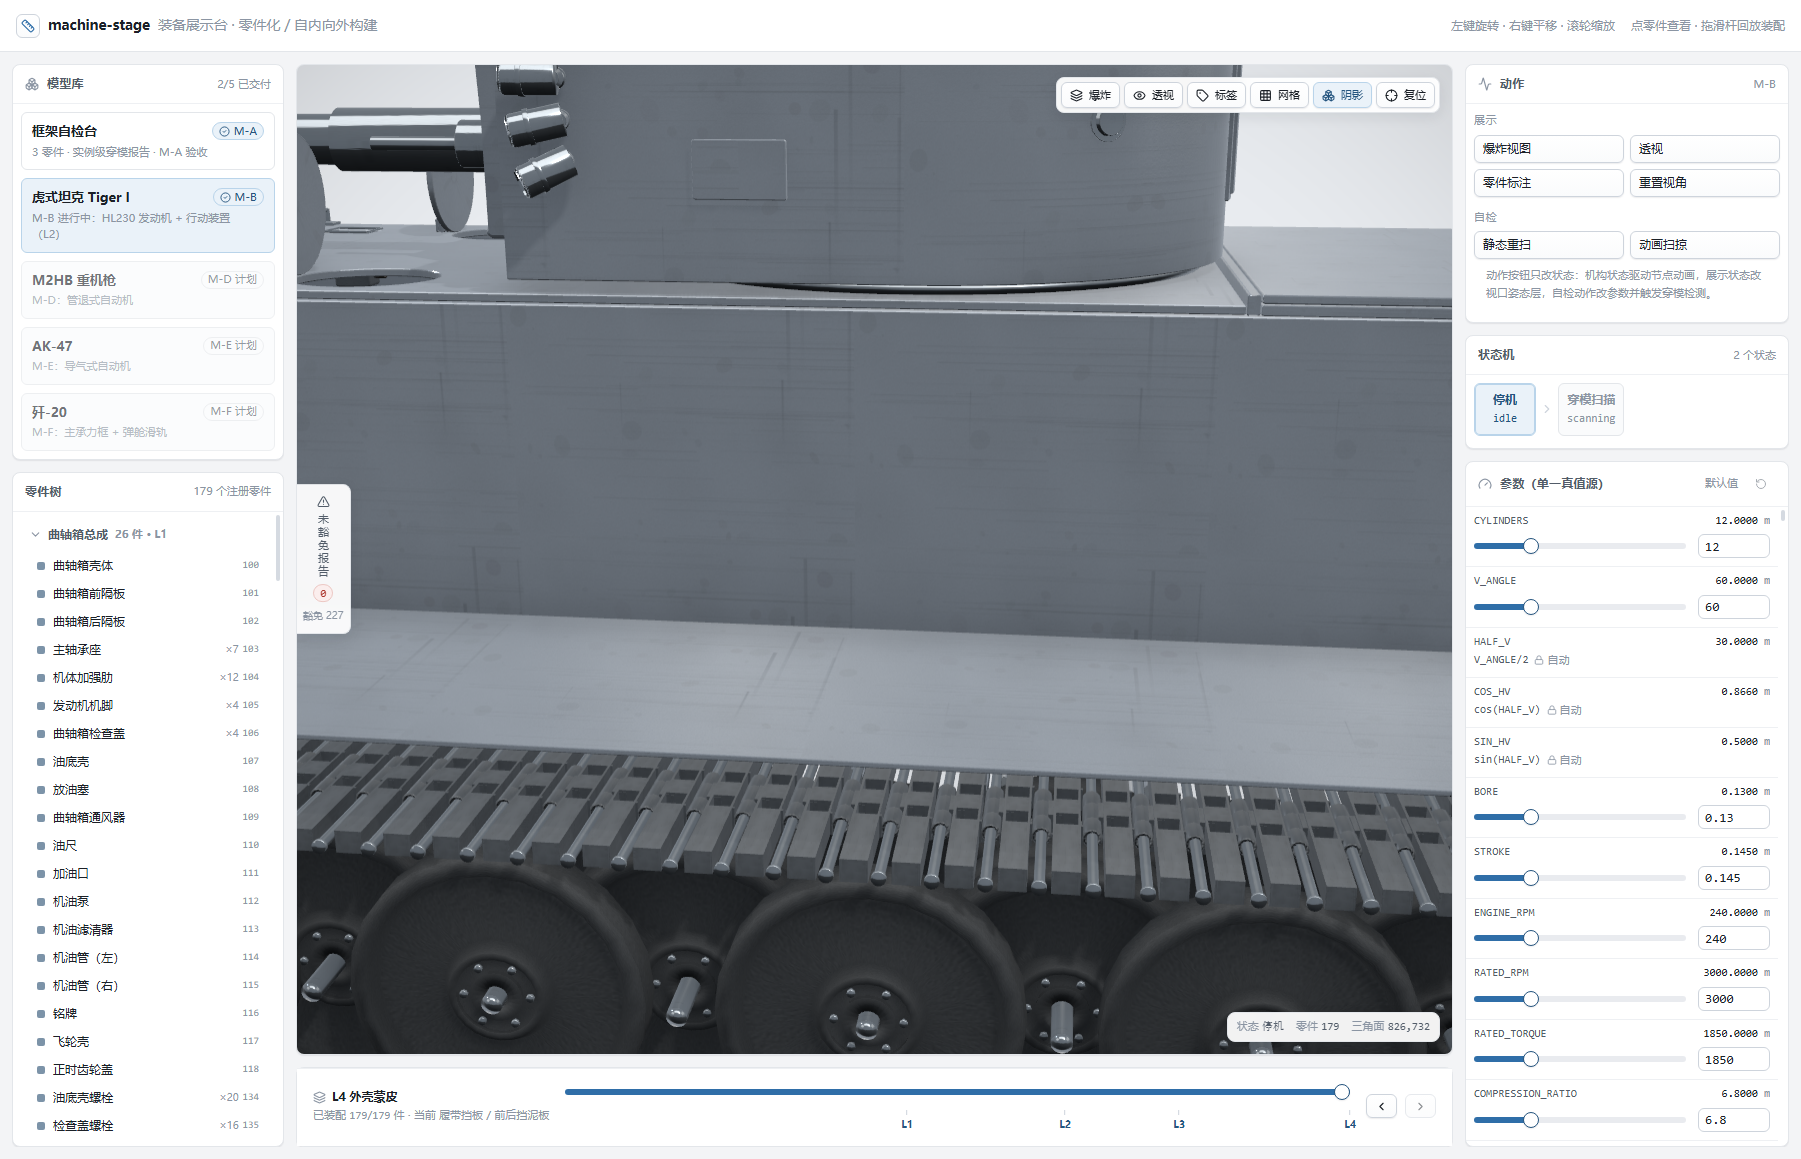
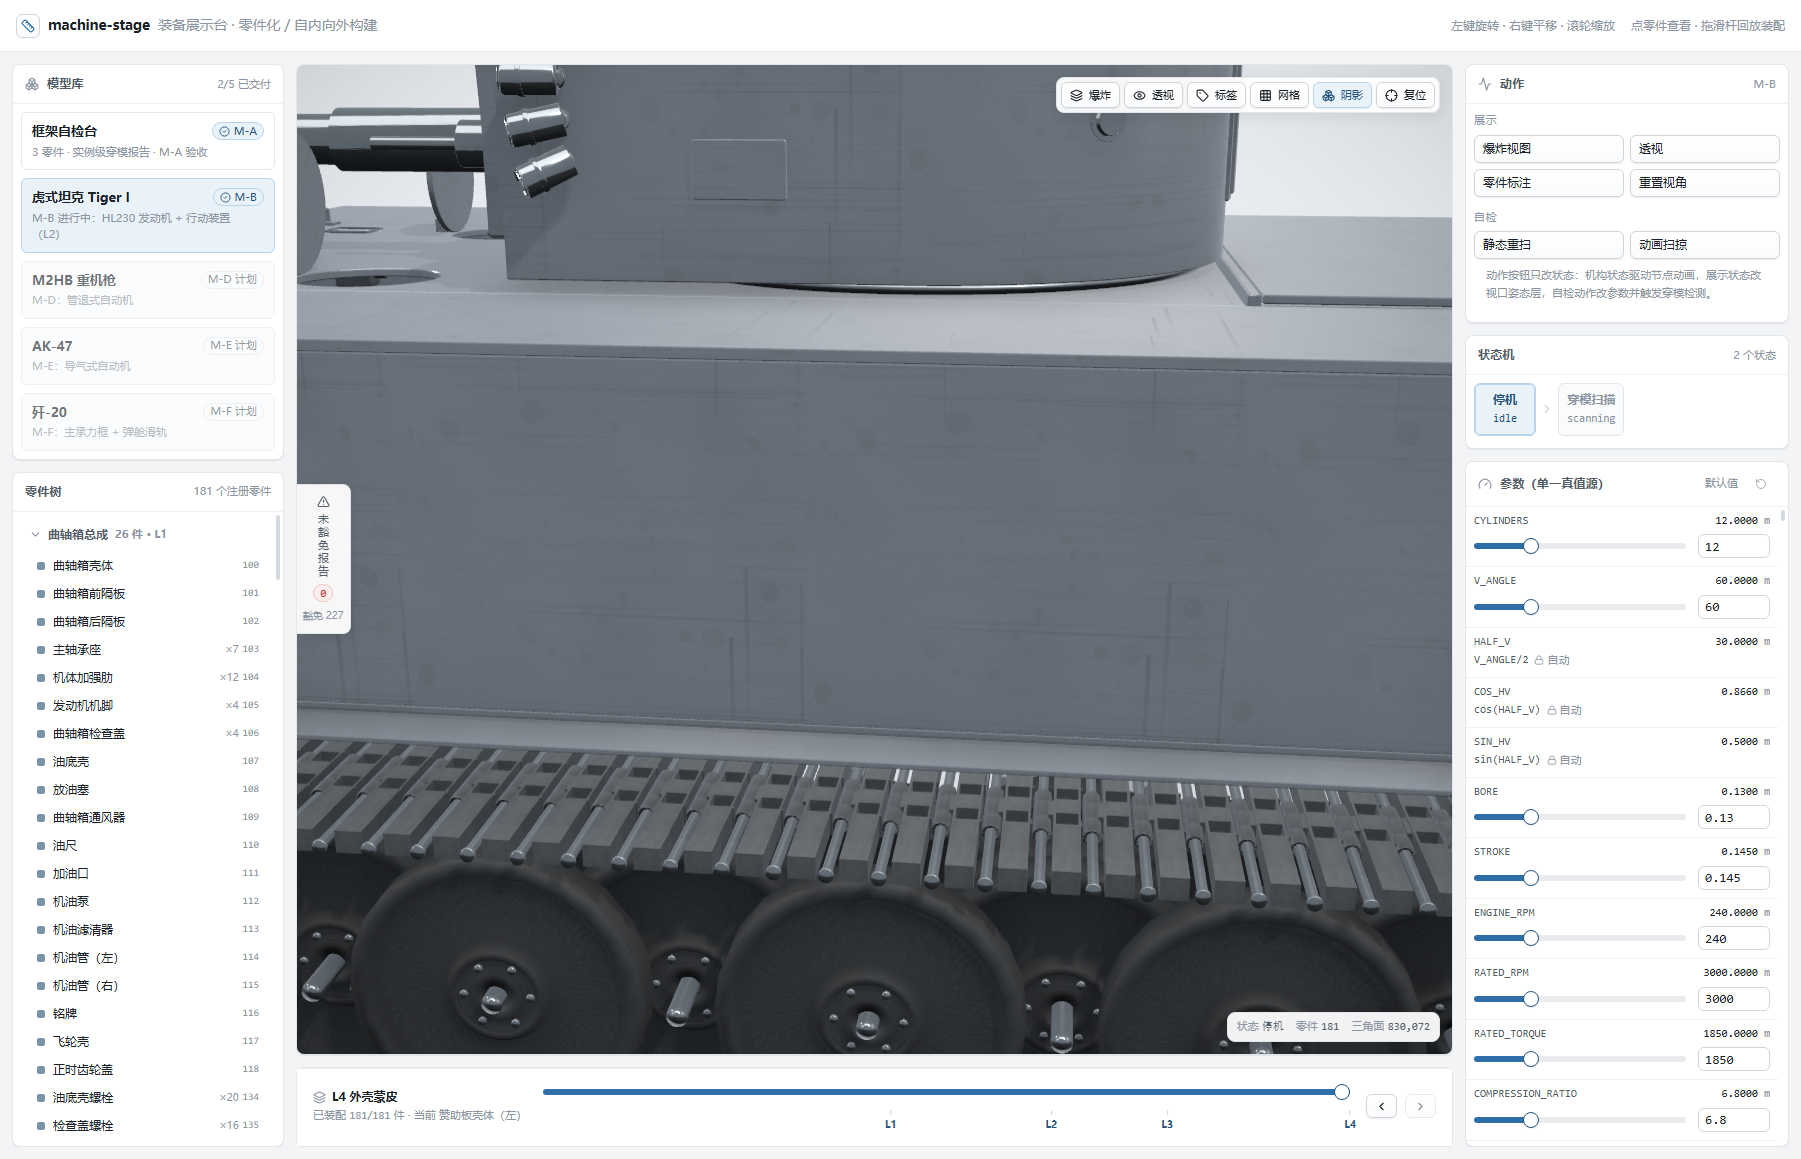
L4-g 第二片：上部车体赞助板（2 件各 1 实例）
tiger.hull.sponson_shell_right / _left：外壁 z ±1.72~±1.78（厚 60）、
地板 y 0.13~0.15（宽 0.8145）、顶板 y 1.045~1.075（与顶盖齐平）、
前后封板与首/尾板同面。一件一侧用 side=±1 参数化，所有块体关于自身
z 中心对称，不用镜像矩阵（无翻面/法线问题）。顶板与顶盖、地板与外壁
内缘留 3mm 名义缝；地板抬到 0.13 让开履带挡板（顶面 0.115）。

bugfix：首次 mate.z 误写 0（局部系原点应在 z ±0.9655），整件骑在中线上，
与前/尾板、航向机枪体、空滤卡箍相交 → 344 报告 / 未豁免 128；
改为 side*0.9655 后回到 227 / 0。

门禁：227 报告 / 未豁免 0（UI 自检 active 0）；实例 1708 → 1710；
零件 179 → 181；tsc / diag / 截图已重拍。

diff --git a/src/three/parts/models/tiger/hull/kits.ts b/src/three/parts/models/tiger/hull/kits.ts
@@ -434,6 +434,50 @@ const trackGuard: GeometryBuilder = (spec) => {
   return merged;
 };
 
+// ---------------------------------------------------------------------------
+// 赞助板壳体（上部车体外翼）：地板 + 外壁 + 顶板 + 前后封板，一件一侧
+// 局部系：原点 = 地板下表面·前端·内缘；+x 向后、y 上。侧别由 side = ±1 控制 z 方向
+// （所有块体关于自身 z 中心对称，不需要镜像矩阵，避免法线翻转）。
+// ---------------------------------------------------------------------------
+const sponsonShell: GeometryBuilder = (spec) => {
+  const params = (spec as { params?: Params }).params;
+  const side = num(params, "side", 1) < 0 ? -1 : 1;
+  const len = num(params, "len", 5.41);
+  const width = num(params, "width", 0.8145);
+  const wallT = num(params, "wallT", 0.06);
+  const floorT = num(params, "floorT", 0.02);
+  const wallH = num(params, "wallH", 0.895);
+  const deckT = num(params, "deckT", 0.03);
+
+  const parts: THREE.BufferGeometry[] = [];
+
+  // 地板（z 0 ~ width）
+  const floor = bevelBoxGeometry(len, floorT, width, 0.003);
+  floor.translate(len / 2, floorT / 2, (side * width) / 2);
+  parts.push(floor);
+
+  // 外壁（外表面与 z = width 齐平）
+  const wall = bevelBoxGeometry(len, wallH, wallT, 0.003);
+  wall.translate(len / 2, floorT + wallH / 2, side * (width - wallT / 2));
+  parts.push(wall);
+
+  // 顶板（顶面 = 1.075，与顶盖齐平；内缘离顶盖 3mm）
+  const deck = bevelBoxGeometry(len, deckT, width, 0.003);
+  deck.translate(len / 2, floorT + wallH + deckT / 2, (side * width) / 2);
+  parts.push(deck);
+
+  // 前后封板（与首/尾板同平面，只占 z 0.9655 以外）
+  for (const x of [0.02, len - 0.02]) {
+    const cap = bevelBoxGeometry(0.04, wallH, width, 0.003);
+    cap.translate(x, floorT + wallH / 2, (side * width) / 2);
+    parts.push(cap);
+  }
+
+  const merged = mergeGeometries(parts);
+  for (const item of parts) item.dispose();
+  return merged;
+};
+
 export const tigerHullKitBuilders: Record<string, GeometryBuilder> = {
   hullPlate,
   hatchLid,
@@ -444,4 +488,5 @@ export const tigerHullKitBuilders: Record<string, GeometryBuilder> = {
   mgBarrel,
   liftingEye,
   trackGuard,
+  sponsonShell,
 };

diff --git a/src/three/parts/models/tiger/hull/registry.ts b/src/three/parts/models/tiger/hull/registry.ts
@@ -708,6 +708,29 @@ function buildHullParts(): PartDefinition[] {
       "履带挡板（Kotflügel）：5.41 m × 0.94 m × 15mm 薄钢板 + 前后各一块 260mm 活页挡泥板（下折 35°）+ 内侧 5 道支撑肋（18 × 100 × 520，贴车体侧留 3mm）。内缘离车体侧壁 3mm（z ±0.9655），外缘到 z ±1.905（履带外缘 1.8525 外 52mm），板面 y 0.10（履带顶 −0.24 上方 340mm）。实车挡板挂在赞助板（z ±1.78）下缘、宽约 300mm；本模型上部车体尚未补，先按下部车体侧壁外伸的整块挡板做，L4-g 上部车体落地后缩到 300mm 并改挂 z ±1.78。",
   });
 
+  for (const side of [1, -1] as const) {
+    parts.push({
+      id: side > 0 ? "tiger.hull.sponson_shell_right" : "tiger.hull.sponson_shell_left",
+      name_cn: side > 0 ? "赞助板壳体（右）" : "赞助板壳体（左）",
+      name_en: side > 0 ? "Seitenvorbau (rechts)" : "Seitenvorbau (links)",
+      assembly: "hull",
+      build_layer: 4,
+      build_order: side > 0 ? 553 : 554,
+      geometry: {
+        type: "kit",
+        kit: "sponsonShell",
+        params: { side, len: 5.41, width: 0.8145, wallT: 0.06, floorT: 0.02, wallH: 0.895, deckT: 0.03 },
+      },
+      material: "armor_steel",
+      mate: {
+        type: "absolute",
+        position: [c.HULL_FRONT_INNER! - c.HULL_FRONT_T!, 0.13, side * 0.9655],
+      },
+      source:
+        "上部车体赞助板（Seitenvorbau）：外壁 z ±1.72 ~ ±1.78（厚 60）、地板 y 0.13 ~ 0.15（宽 0.8145，内缘离侧装甲 3mm）、顶板 y 1.045 ~ 1.075（与顶盖齐平，内缘离顶盖 3mm）、前后封板与首/尾板同面。实车上部车体宽 3.56、下部车体 1.925，赞助板正是这 0.9m 的悬挑；本件落地后车体侧面不再是「窄箱 + 外挂履带」。首板下段仍保持窄，让开主动轮（z ±1.49 / r 0.414）；后段顶板与发动机甲板（1.08 ~ 1.105）留 30mm 台阶，过渡段随下一片。",
+    });
+  }
+
   return parts;
 }
 

diff --git a/docs/PROGRESS.md b/docs/PROGRESS.md
@@ -1153,3 +1153,16 @@ mtime 后服务的模块变为 `+ 0.12`，UI 自检随即回到 227 / 0。口径
 - 说明：这是 L4-g 上部车体的第一片。挡板先按「下部车体侧壁外伸的整块板」做——它把
   「窄车体 + 外挂履带」的侧面空档补上了；等赞助板（z ±1.78 外壁 + 地板 + 顶甲板延伸）落地后，
   挡板缩到 300mm 并改挂 z ±1.78。首板下段仍须保持窄（主动轮 z ±1.49 / r 0.414）。
+
+### L4 第八批：上部车体赞助板（2026-10-20）
+
+`tiger.hull.sponson_shell_right` / `_left`（553 / 554，各 1 实例）：外壁 z ±1.72~±1.78（厚 60）、
+地板 y 0.13~0.15（宽 0.8145）、顶板 y 1.045~1.075（与顶盖齐平）、前后封板与首/尾板同面。
+一件一侧用 `side = ±1` 参数化（块体关于自身 z 中心对称，不用镜像矩阵，无翻面问题）。
+顶板与顶盖、地板与外壁内缘一律留 3mm 名义缝；地板抬到 0.13 是为了让开履带挡板（顶面 0.115）。
+
+- 首次落地时 mate.z 误写 0（局部系原点应落在 z ±0.9655），导致整件骑在车体中线上，
+  与前/尾板、航向机枪体、空滤卡箍相交，报告 344 / 未豁免 128；改为 `side * 0.9655` 后回到 **227 / 0**。
+- 门禁：227 报告 / 未豁免 0（UI 自检 active 0）；实例 1708 → **1710**；零件 179 → **181**；
+  tsc ✓ / diag ✓ / 截图 `m-l4g-guard-side.png`、`m-l4g-front-quarter.png` 已重拍。
+- 遗留：后段顶板与发动机甲板（1.08~1.105）30mm 台阶待过渡段；挡板尚未缩到 300mm 改挂 z ±1.78。
